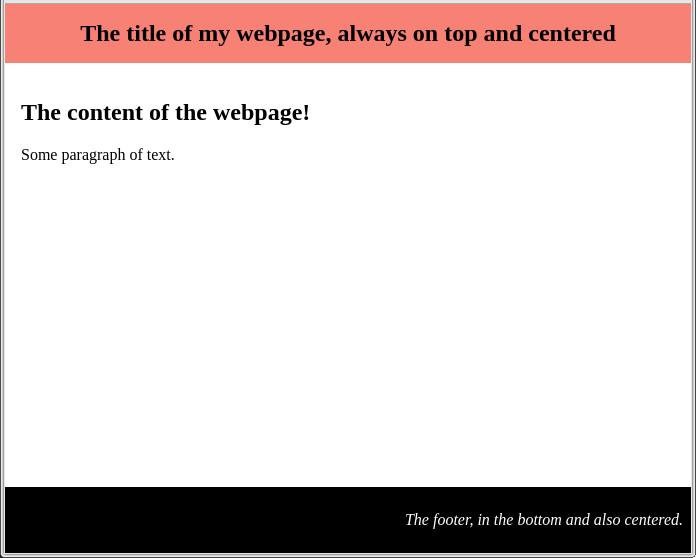
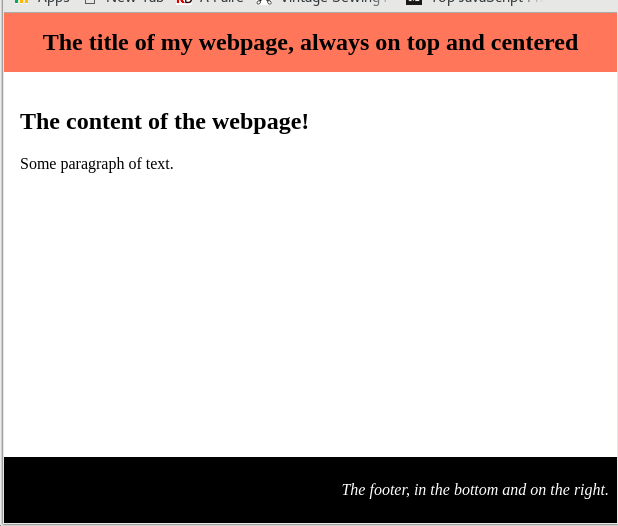
update

Changed region(s): [[0.0, 0.0, 1.0, 1.0]]

diff --git a/07_flexbox/readme.md b/07_flexbox/readme.md
@@ -159,7 +159,7 @@ __Q.__ Write the CSS code that mimic the behavior of the webpage `01_header_foot
 	</section>
 
 	<footer>
-		<p>The footer, in the bottom and also centered.</p>
+		<p>The footer, in the bottom and on the right.</p>
 	</footer>
 
 </article>
